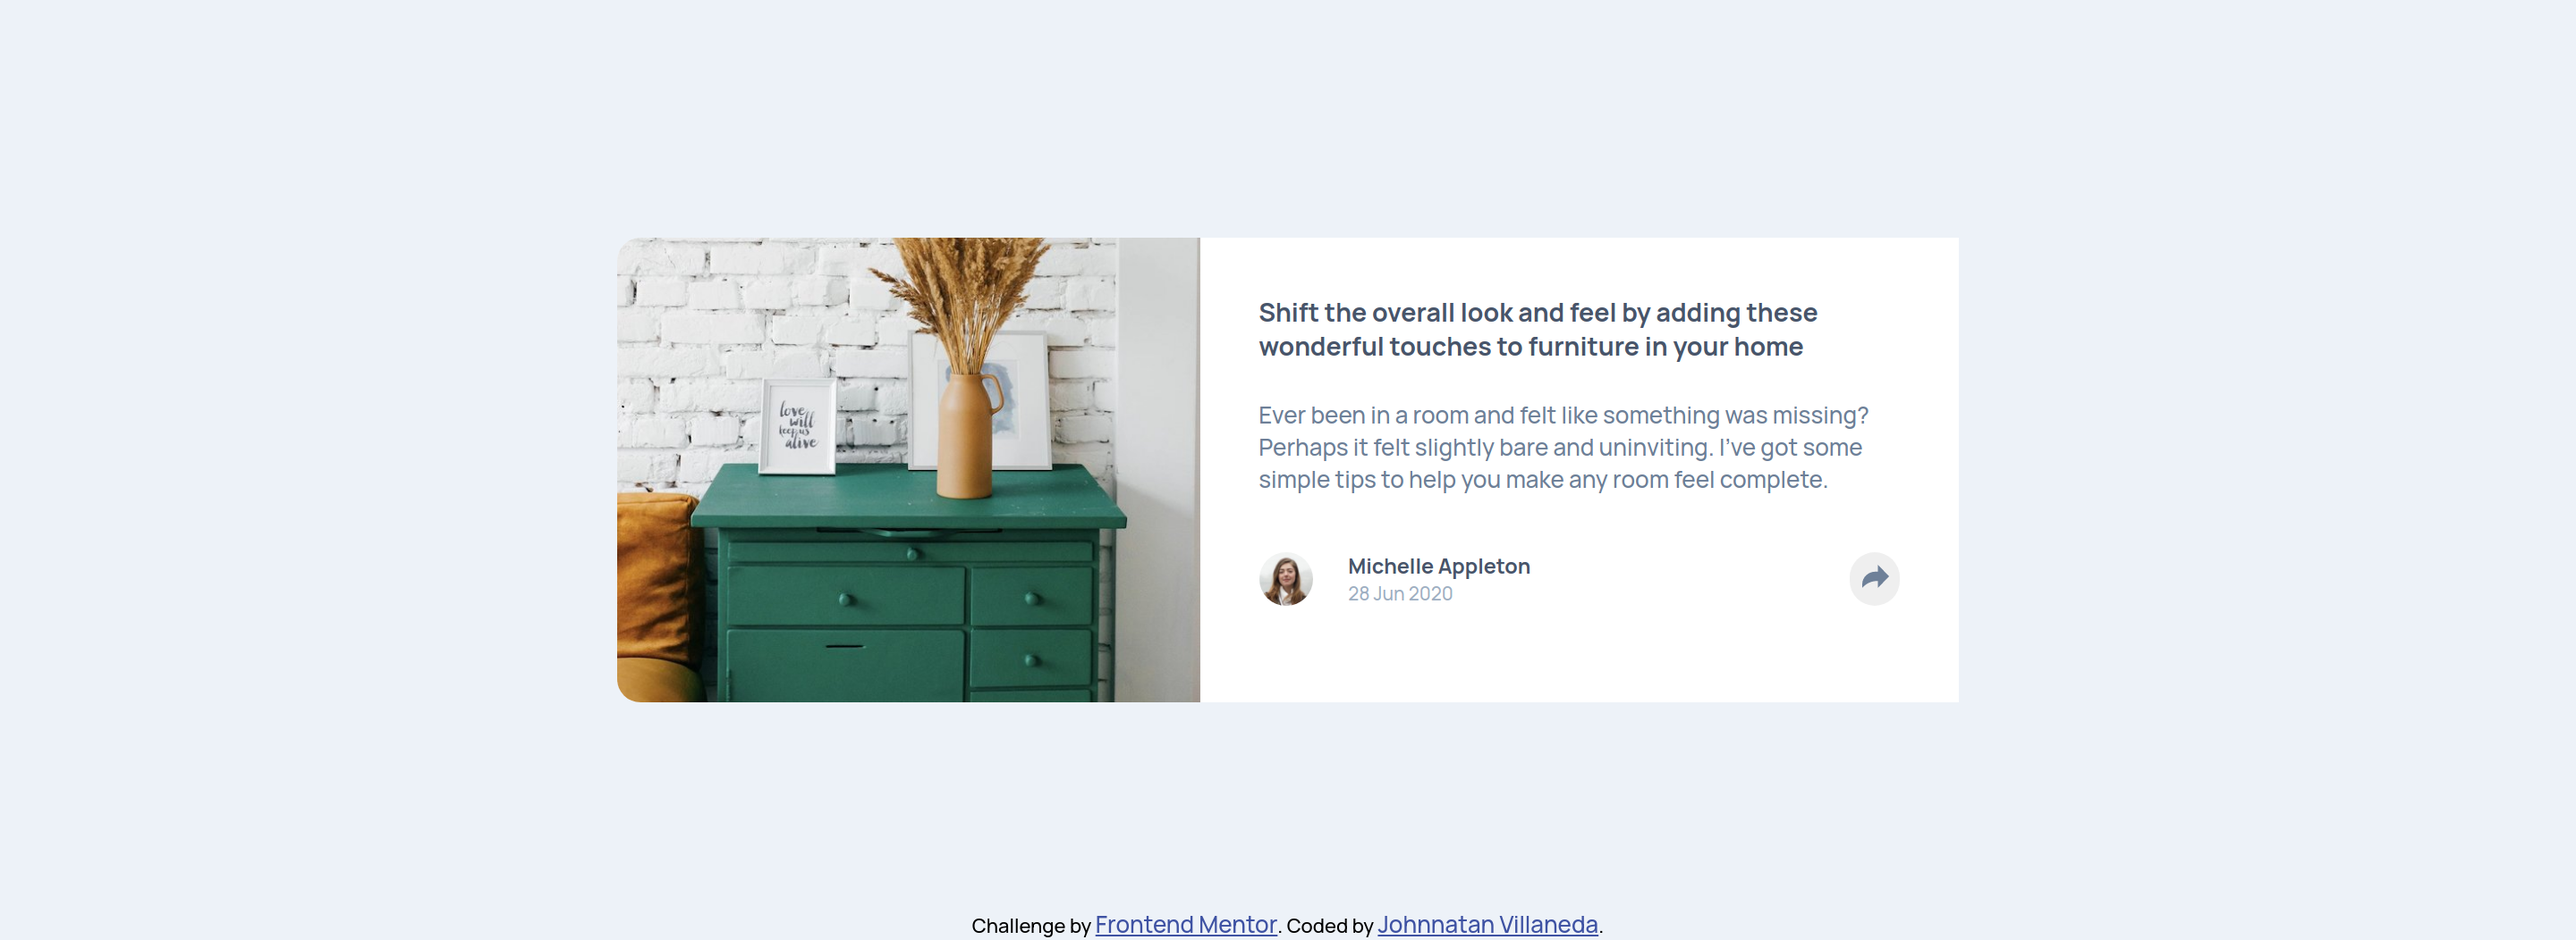
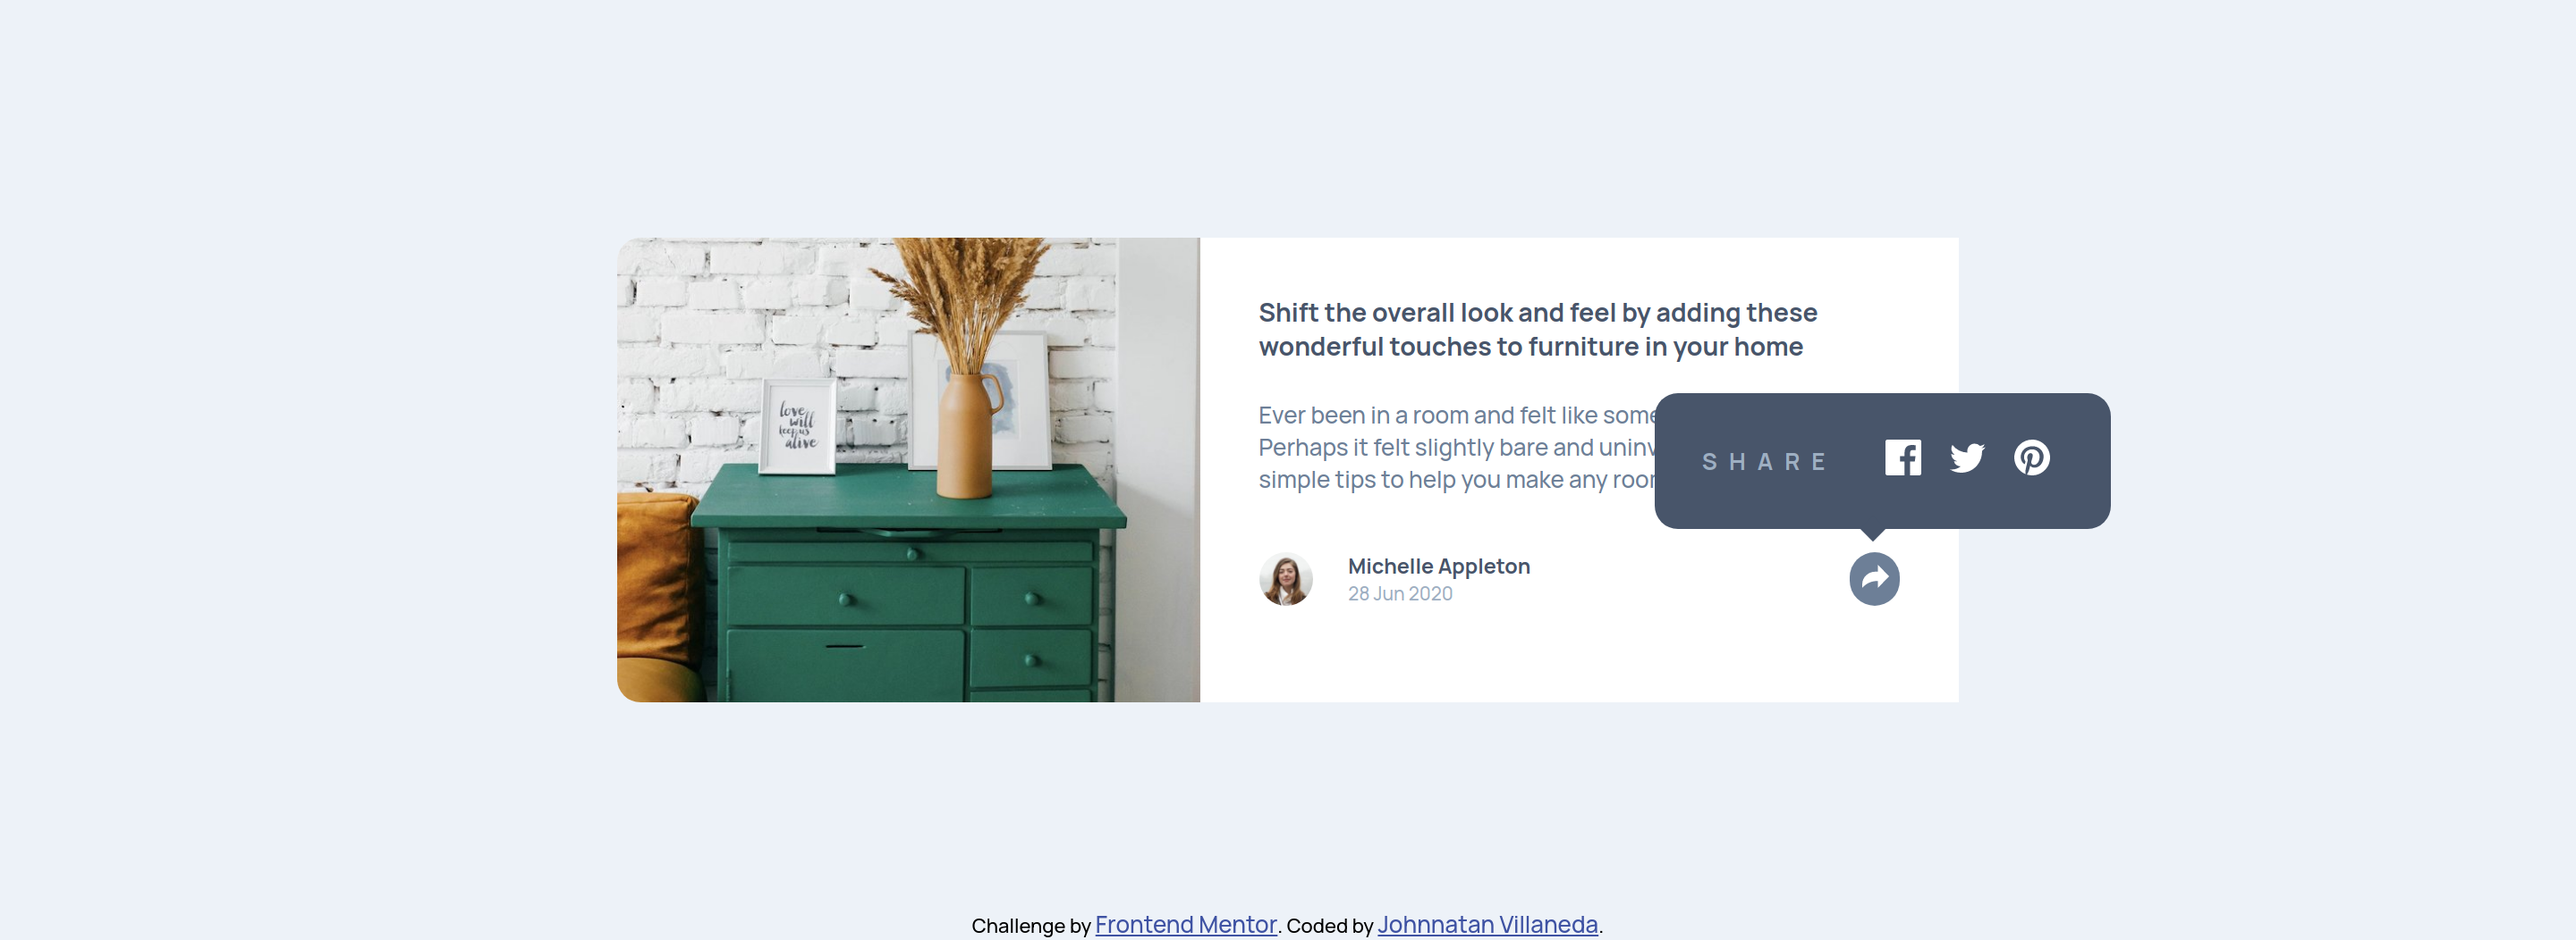
Finished project

Changed region(s): [[0.625, 0.3954, 0.8438, 0.6388]]

diff --git a/index.html b/index.html
@@ -21,7 +21,6 @@
     />
 
     <!-- CSS -->
-    <link rel="stylesheet" href="assets/css/all.min.css" />
     <link rel="stylesheet" href="assets/css/style.css" />
 
     <title>Frontend Mentor | Article preview component</title>

diff --git a/README.md b/README.md
@@ -23,6 +23,7 @@ Users should be able to:
 ### Screenshot
 
 ![Mobile](./screenshots/mobile.png)
+![Mobile2](./screenshots/mobile-active.png)
 ![desktop](./screenshots/desktop.png)
 
 ### Links
